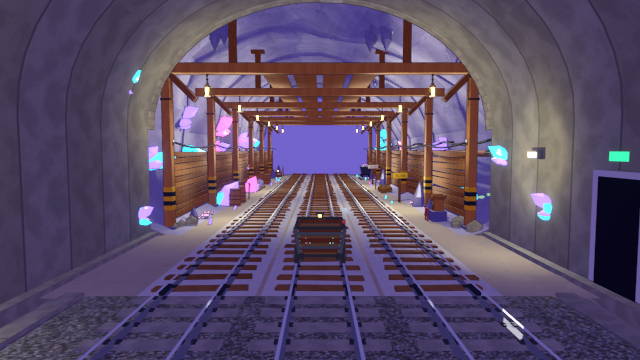
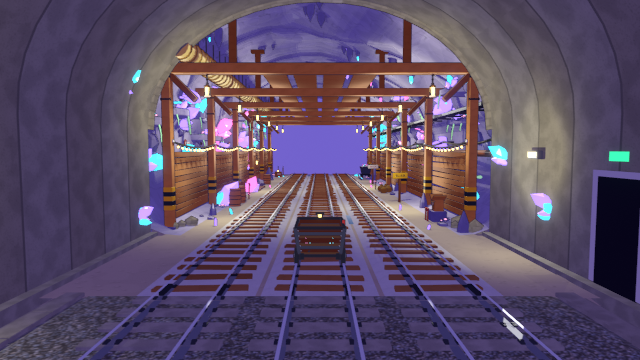
Fill the cave's sides and keep the crouch heights in one place
The walls above the boards were bare. Each segment now has rock ledges
with crystals, glowing mushrooms and hanging moss; boulders standing out
of the wall; rock bolts; a painted survey mark; veins of small crystals;
more clusters up to the crown; and more stalactites, some tipped with
crystals. A string of work lights runs along the boards, a canvas
ventilation duct hangs high on the left wall, a cable tray runs along the
right, and rubble lines the wall foot. One segment variant gets a closed
side gallery (第三坑道) with a rail stub, a barrier bar and a lantern.

Deco now sits on the shell's actual facets (_shell_mesh_at), so it no
longer floats or sinks where the mesh cuts across the strata steps.

BEAM_UNDERSIDE and SWARM_BAND sit with the other constants, and the
timber beam's sign, straps and hard hat and the fallen log's rubble
follow BEAM_UNDERSIDE, so a new rider height is one edit. A cave_sides
still shows the left wall.

Claude-Session: https://claude.ai/code/session_01CbRVruFijGgeuhrGT3us7X

diff --git a/blender/assets/cave.py b/blender/assets/cave.py
@@ -46,6 +46,11 @@ SHADOW = 0x6E62AE          # tinted shadow band inside the cave (the Sakura Line
 SHADOW_WARM = 0x8A6A8A
 CRYSTALS = (0x45D6F2, 0x9C7CFF, 0xFF74C4)
 
+# Crouch clearances, from the rider's height in the cart (the vehicle side owns Pongo's size). The crouch obstacles
+# are built relative to these, so a new rider height is one edit here plus the same numbers in the game.
+BEAM_UNDERSIDE = 1.25      # underside of ob_timber_beam and ob_fallen_log (obstacles.py: "beam HIGH ... at 1.25 m")
+SWARM_BAND = (1.2, 1.9)    # height band ob_bat_swarm flies in
+
 
 def mats():
     M = E.mat
@@ -91,6 +96,10 @@ def mats():
     M("c_loco_trim", 0xF2C230, spec=0.3, rim=0.3, soft=0.08, shadow=SHADOW_WARM)
     M("c_glass", 0x9FD8F0, spec=1.0, rim=0.5, soft=0.05, emis=0.25, flags=E.F_GLASS)
     M("c_strap", 0x3A2E2A, rim=0.25, soft=0.1, shadow=SHADOW_WARM)
+    M("c_canvas", 0xF2D98A, rim=0.3, soft=0.12, outline=0.6, shadow=SHADOW_WARM)          # ventilation duct
+    M("c_canvas_ring", 0xC99A48, rim=0.2, soft=0.1, outline=0.4, shadow=SHADOW_WARM)
+    M("c_cable_orange", 0xE58A4A, rim=0.25, soft=0.1, outline=0.0, shadow=SHADOW_WARM)
+    M("c_void", 0x16122A, emis=1.0, rim=0.0, soft=0.0, outline=0, flags=E.F_NOCAST)       # a side gallery's dark
 
 
 # ----------------------------------------------------------------------------- helpers
@@ -287,27 +296,87 @@ def cave_shell(lod=0, seed=1, seg=SEG):
     return m.obj("cave_shell_%d" % seed + ("" if lod == 0 else "@1"), smooth_angle=18)
 
 
+_PROF0 = {}
+
+
+def _shell_mesh_at(i, t, y, seed):
+    """Point on the LOD0 cave_shell mesh itself: between profile vertices i and i+1 (t 0..1) and between the 1 m
+    rows around y. Placing deco on the facets, not on the smooth field, keeps it from floating or sinking where
+    the mesh cuts across the strata steps."""
+    if not _PROF0:
+        _PROF0["p"] = vault_profile(15)
+    prof, arc = _PROF0["p"]
+    ya = math.floor(y)
+    u = y - ya
+
+    def P(k, yy):
+        x, z, nx, nz = prof[k]
+        return shell_point(x, z, nx, nz, arc[k], yy, seed)
+    a = P(i, ya).lerp(P(i + 1, ya), t)
+    b = P(i, ya + 1.0).lerp(P(i + 1, ya + 1.0), t)
+    n = V(prof[i][2:]).lerp(V(prof[i + 1][2:]), t)
+    return a.lerp(b, u), V((n.x, 0, n.y)).normalized()
+
+
 def _surface_at(px, pz_hint, y, seed, side):
-    """Point and inward normal on the displaced shell near height pz_hint on one side (+1 right, -1 left)."""
-    prof, arc = vault_profile(60)
-    best = None
-    for i, (x, z, nx, nz) in enumerate(prof):
-        if (x > 0) != (side > 0):
+    """Point and inward normal on the shell mesh at height pz_hint on one side (+1 right, -1 left)."""
+    if not _PROF0:
+        _PROF0["p"] = vault_profile(15)
+    prof = _PROF0["p"][0]
+    for i in range(len(prof) - 1):
+        (x0, z0), (x1, z1) = prof[i][:2], prof[i + 1][:2]
+        if (x0 + x1 > 0) != (side > 0) or z0 == z1:
             continue
-        dz = abs(z - pz_hint)
-        if best is None or dz < best[0]:
-            best = (dz, i)
-    i = best[1]
-    x, z, nx, nz = prof[i]
-    p = shell_point(x, z, nx, nz, arc[i], y, seed)
-    return p, V((nx, 0, nz))
+        t = (pz_hint - z0) / (z1 - z0)
+        if 0.0 <= t <= 1.0:
+            return _shell_mesh_at(i, t, y, seed)
+    raise ValueError("no wall at z=%.2f" % pz_hint)
 
 
 def _ceiling_at(x_hint, y, seed):
-    prof, arc = vault_profile(60)
-    i = min(range(len(prof)), key=lambda k: abs(prof[k][0] - x_hint) + (0 if prof[k][1] > 5 else 100))
-    x, z, nx, nz = prof[i]
-    return shell_point(x, z, nx, nz, arc[i], y, seed), V((nx, 0, nz))
+    if not _PROF0:
+        _PROF0["p"] = vault_profile(15)
+    prof = _PROF0["p"][0]
+    for i in range(len(prof) - 1):
+        (x0, z0), (x1, z1) = prof[i][:2], prof[i + 1][:2]
+        if min(z0, z1) > 4.5 and x0 != x1:
+            t = (x_hint - x0) / (x1 - x0)
+            if 0.0 <= t <= 1.0:
+                return _shell_mesh_at(i, t, y, seed)
+    return _surface_at(0, 5.0, y, seed, 1 if x_hint > 0 else -1)
+
+
+def _ledge(m, side, y, z, L, seed, rnd, palette, lod=0):
+    """A rock shelf jutting from the wall at height z, L long: flat top with a jagged front lip, its back buried in
+    the rock, crystals and glowing mushrooms on it and glowing moss hanging over the edge."""
+    ws = [abs(_surface_at(0, z, yy, seed, side)[0].x) for yy in (y - L / 2, y, y + L / 2)]
+    back = max(ws) + 0.35
+    front = min(ws) - rnd.uniform(0.55, 0.85)
+    n = 6
+    lip = []
+    for j in range(n + 1):
+        t = j / n
+        taper = math.sin(math.pi * t) ** 0.6           # the ends tuck back into the wall
+        xa = front + (1 - taper) * (back - 0.3 - front) + rnd.uniform(-0.1, 0.1) * taper
+        lip.append((side * xa, y - L / 2 + L * t))
+    outline = lip + [(side * back, y + L / 2), (side * back, y - L / 2)]
+    th = rnd.uniform(0.22, 0.32)
+    m.mat("c_rock", uvscale=1.5)
+    m.extrude(outline, th, c=(0, 0, z), bevel=(0.03, 1) if lod == 0 else None)
+    top = z + th / 2
+    xm = side * (front + 0.35)
+    crystal_cluster(m, (xm, y + rnd.uniform(-L / 4, L / 4), top), (-side * 0.25, rnd.uniform(-0.3, 0.3), 1.0),
+                    size=rnd.uniform(0.45, 0.8), rnd=rnd, mats=palette, n=4 if lod == 0 else 2, lod=lod)
+    if lod == 0:
+        _mushrooms(m, xm + side * 0.15, y + rnd.uniform(-L / 3, L / 3), top, rnd, n=rnd.randint(3, 5), spread=0.12)
+        m.mat("c_moss")
+        for j in range(1, n):
+            if rnd.random() < 0.55:
+                x0, yy = lip[j]
+                h = rnd.uniform(0.25, 0.8)
+                m.tube([(x0 + side * 0.03, yy, z - th / 2 + 0.02), (x0 - side * 0.02, yy + 0.03, z - th / 2 - h * 0.5),
+                        (x0 - side * 0.04, yy, z - th / 2 - h)], r=0.035, seg=5, taper=0.4)
+        m.ico((xm + side * 0.2, y, top), 0.22, 1, s=(1.0, 2.0, 0.25))
 
 
 def cave_deco(lod=0, seed=1, seg=SEG):
@@ -328,9 +397,65 @@ def cave_deco(lod=0, seed=1, seg=SEG):
             y = rnd.uniform(1.5, seg - 1.5)
             crystal_cluster(m, (side * rnd.uniform(4.75, 5.2), y, FLOOR), (side * -0.45, rnd.uniform(-0.2, 0.2), 1.0),
                             size=rnd.uniform(0.9, 1.6), rnd=rnd, mats=palette, n=rnd.randint(6, 10), lod=lod)
-    # stalactites in groups from the vault
+    # upper walls (they were bare above the boards): rock ledges with crystals, mushrooms and hanging moss, more
+    # clusters up to the crown, and veins of small points running along cracks
+    for side in (-1, 1):
+        for k in range(rnd.randint(3, 4) if lod == 0 else 1):
+            _ledge(m, side, seg * (k + rnd.uniform(0.25, 0.75)) / 4, rnd.uniform(3.0, 5.4), rnd.uniform(1.6, 2.8), seed,
+                   rnd, palette, lod)
+        for k in range(rnd.randint(6, 9) if lod == 0 else 2):           # boulders standing out of the wall
+            p, nrm = _surface_at(0, rnd.uniform(2.8, 7.0), rnd.uniform(0.3, seg - 0.3), seed, side)
+            m.push(Matrix.Translation(p) @ _orient(nrm))
+            _rock(m, (0, 0, 0), rnd.uniform(0.25, 0.6), rnd, s=(1.0, rnd.uniform(0.7, 1.2), 0.75),
+                  mat=rnd.choice(("c_rock_dark", "c_rock_wet")))
+            m.pop()
+        if lod == 0:                                                   # rock bolts: plates and nuts in a loose grid
+            for yb in (1.6, 4.6, 7.6, 10.6):
+                for zb in (3.2, 4.6, 6.0):
+                    if rnd.random() < 0.75:
+                        p, nrm = _surface_at(0, zb + rnd.uniform(-0.3, 0.3), yb + rnd.uniform(-0.4, 0.4), seed, side)
+                        m.push(Matrix.Translation(p) @ _orient(nrm) @ _R(rnd.uniform(-20, 20), 'Z'))
+                        m.mat("c_iron_dark")
+                        m.box((0, 0, 0.0), (0.18, 0.18, 0.04), smooth=False)
+                        m.mat("c_rust")
+                        m.cyl((0, 0, 0.04), r=0.035, h=0.05, seg=6, smooth=False)
+                        m.pop()
+            # a survey mark painted on the rock: a red ring round a white dot, and an arrow out
+            p, nrm = _surface_at(0, rnd.uniform(3.0, 3.8), rnd.uniform(2.0, seg - 2.0), seed, side)
+            m.push(Matrix.Translation(p + nrm * 0.03) @ _orient(nrm))
+            m.mat("c_paint_red")
+            m.cyl((0, 0, 0), r=0.16, h=0.02, seg=16)
+            m.mat("c_paint_white")
+            m.cyl((0, 0, 0.012), r=0.08, h=0.02, seg=12)
+            m.mat("c_paint_white")
+            m.poly([(0.25, -0.05, 0.01), (0.55, -0.05, 0.01), (0.55, -0.12, 0.01), (0.7, 0.0, 0.01), (0.55, 0.12, 0.01),
+                    (0.55, 0.05, 0.01), (0.25, 0.05, 0.01)])
+            m.pop()
+        m.mat("c_moss")
+        for k in range(rnd.randint(2, 4) if lod == 0 else 0):           # glowing moss up the wall
+            p, nrm = _surface_at(0, rnd.uniform(2.8, 6.0), rnd.uniform(0.5, seg - 0.5), seed, side)
+            m.push(Matrix.Translation(p) @ _orient(nrm))
+            for j in range(3):
+                m.ico((rnd.uniform(-0.2, 0.2), rnd.uniform(-0.25, 0.25), 0), rnd.uniform(0.15, 0.28), 1,
+                      s=(1.0, 1.3, 0.25))
+            m.pop()
+        for k in range(rnd.randint(2, 3)):
+            p, nrm = _surface_at(0, rnd.uniform(4.6, 6.8), rnd.uniform(1.0, seg - 1.0), seed, side)
+            crystal_cluster(m, tuple(p - nrm * 0.1), (nrm + V((0, 0, -0.25))).normalized(), size=rnd.uniform(0.6, 1.2),
+                            rnd=rnd, mats=palette, n=rnd.randint(4, 7), lod=lod)
+        for k in range(rnd.randint(2, 3) if lod == 0 else 0):
+            y0, z0 = rnd.uniform(0.5, seg - 3.0), rnd.uniform(2.9, 6.0)
+            for j in range(rnd.randint(5, 8)):
+                p, nrm = _surface_at(0, z0 + j * 0.13 + rnd.uniform(-0.1, 0.1), y0 + j * 0.35, seed, side)
+                d = (nrm + V((rnd.uniform(-0.4, 0.4), rnd.uniform(-0.4, 0.4), 0.3))).normalized()
+                crystal(m, tuple(p - nrm * 0.05), d, rnd.uniform(0.15, 0.35), 0.045, rnd.choice(palette),
+                        twist=rnd.random())
+        for k in range(rnd.randint(4, 7) if lod == 0 else 2):          # rubble along the wall foot
+            _rock(m, (side * rnd.uniform(4.4, 5.3), rnd.uniform(0.3, seg - 0.3), FLOOR + 0.04),
+                  rnd.uniform(0.08, 0.22), rnd, s=(1.0, 1.0, 0.6), mat=rnd.choice(("c_rock", "c_rock_dark")))
+    # stalactites in groups from the vault, some tipped with a crystal
     m.mat("c_rock_wet", uvscale=1.0)
-    for g in range(rnd.randint(3, 5)):
+    for g in range(rnd.randint(5, 8) if lod == 0 else 3):
         xg = rnd.uniform(-5.0, 5.0)
         yg = rnd.uniform(0.5, seg - 0.5)
         for k in range(rnd.randint(2, 5) if lod == 0 else 2):
@@ -342,6 +467,10 @@ def cave_deco(lod=0, seed=1, seg=SEG):
             n = 7 if lod == 0 else 5
             m.cyl((0, 0, -L * 0.3), r=r, r2=r * 1.15, h=L * 0.6, seg=n)
             m.cyl((0, 0, -L * 0.8), r=0.0, r2=r, h=L * 0.4, seg=n, caps=False)
+            if lod == 0 and rnd.random() < 0.3:
+                crystal(m, (0, 0, -L * 0.75), (rnd.uniform(-0.2, 0.2), rnd.uniform(-0.2, 0.2), -1.0), L * 0.4, r * 0.5,
+                        rnd.choice(palette))
+            m.mat("c_rock_wet", uvscale=1.0)
             m.pop()
     # stalagmites at the wall foot
     for side in (-1, 1):
@@ -452,6 +581,13 @@ def cave_frame(lod=0):
             m.mat("c_cable")
             m.sweep(pts, [(0.018 * math.cos(a), 0.018 * math.sin(a)) for a in [2 * math.pi * i / 6 for i in range(6)]],
                     closed=True, cap=False, up=(0, 0, 1))
+            for i in range(1, 12):                 # a string of work lights on the cable
+                y = 6.0 * i / 12
+                zc = 3.0 - 0.18 * math.sin(math.pi * y / 6.0)
+                m.mat("c_iron_dark")
+                m.cyl((s * 5.12, y, zc - 0.05), r=0.022, h=0.06, seg=6)
+                m.mat("c_lamp")
+                m.sphere((s * 5.12, y, zc - 0.12), 0.05, 6, 4)
             m.mat("c_porcelain")
             m.cyl((s * 5.12, 0, 3.04), r=0.045, r2=0.03, h=0.09, seg=8)
             m.mat("c_iron_dark")
@@ -489,6 +625,29 @@ def cave_pipe(lod=0, seg=SEG):
         pts += E.catenary(a, b, sag=0.18, n=10 if lod == 0 else 4)[(0 if k == 0 else 1):]
     pts = [p for p in pts if p[1] <= seg + 0.01] + [(x - 0.02, seg, z + 0.52 - 0.0)]
     m.tube(pts, r=0.03, seg=6 if lod == 0 else 4, cap=False)
+    # a canvas ventilation duct hung high on the left wall, above the frames' cap beams, ribbed every 0.6 m
+    dx, dz, dr = -4.6, 6.1, 0.38
+    m.mat("c_canvas", uvscale=1.0)
+    m.cyl((dx, seg / 2, dz), r=dr, h=seg, seg=16 if lod == 0 else 8, axis='Y')
+    m.mat("c_canvas_ring")
+    for k in range(int(seg / 0.6)):
+        y = 0.3 + k * 0.6
+        if lod == 0 or k % 3 == 0:
+            m.torus((dx, y, dz), R=dr + 0.005, r=0.025, seg=16 if lod == 0 else 8, sides=4, axis='Y')
+    m.mat("c_iron_dark")
+    for k in range(int(seg / 1.2)):
+        y = 0.6 + k * 1.2
+        m.cyl((dx - 0.15, y, dz + dr + 0.45), r=0.01, h=0.9, seg=4)                     # hanger wires
+    # a cable tray on the right wall above the boards: three cables on brackets
+    tx, tz = 5.75, 4.3
+    m.mat("c_iron_dark")
+    m.box((tx, seg / 2, tz - 0.03), (0.42, seg, 0.025), smooth=False)
+    m.box((tx - 0.2, seg / 2, tz + 0.02), (0.02, seg, 0.1), smooth=False)
+    for k in range(int(seg / 1.5)):
+        m.box((tx + 0.25, 0.75 + k * 1.5, tz - 0.08), (0.6, 0.05, 0.05), smooth=False)
+    for j, mat in enumerate(("c_cable", "c_cable_orange", "c_iron") if lod == 0 else ("c_cable_orange",)):
+        m.mat(mat)
+        m.cyl((tx - 0.12 + j * 0.12, seg / 2, tz + 0.03), r=0.04, h=seg, seg=8 if lod == 0 else 5, axis='Y')
     return m.obj("cave_pipe" if lod == 0 else "cave_pipe@1", smooth_angle=40)
 
 
@@ -676,7 +835,6 @@ def rockpile(name="ob_rockpile", seed=3):
     return ob
 
 
-BEAM_UNDERSIDE = 1.25      # crouch height in the cart (obstacles.py: "beam HIGH timber beam at 1.25 m")
 
 
 def timber_beam(name="ob_timber_beam"):
@@ -693,7 +851,7 @@ def timber_beam(name="ob_timber_beam"):
             m.mat("c_paint_yellow" if k % 2 == 0 else "c_paint_black")
             m.box((0, 0, 0.2 + k * 0.14), (0.25, 0.25, 0.14), smooth=False)
         m.mat("c_iron_dark")
-        for z in (0.95, BEAM_UNDERSIDE - 0.08):
+        for z in (BEAM_UNDERSIDE - 0.3, BEAM_UNDERSIDE - 0.08):
             m.box((0, 0, z), (0.27, 0.27, 0.05), smooth=False)                          # iron strap
             for bx in (-0.06, 0.06):
                 m.cyl((bx, -0.14, z), r=0.017, h=0.02, seg=8, axis='Y')                # bolt heads
@@ -708,7 +866,7 @@ def timber_beam(name="ob_timber_beam"):
     m.mat("c_iron_dark")
     bx, by, bz = _chain(m, (-W / 2 - 0.2, -0.1, BEAM_UNDERSIDE), n=5)
     m.torus((bx, by, bz - 0.03), R=0.04, r=0.01, seg=10, sides=4, arc=270.0, axis='Y')
-    _hard_hat(m, (W / 2 - 0.02, -0.27, 1.06), yaw=8)
+    _hard_hat(m, (W / 2 - 0.02, -0.27, BEAM_UNDERSIDE - 0.19), yaw=8)
     m.mat("c_timber", uvscale=1.0)
     m.push(Matrix.Translation((0, 0, BEAM_UNDERSIDE + 0.14)) @ Matrix.Rotation(math.radians(2), 4, 'Y'))
     m.box((0, 0, 0), (W + 0.5, 0.28, 0.28), bevel=(0.015, 1), smooth=False)       # underside at the crouch line
@@ -722,18 +880,19 @@ def timber_beam(name="ob_timber_beam"):
     # hazard board on ropes: yellow/black stripes and 頭上注意
     m.mat("c_rope")
     for x in (-0.4, 0.4):
-        m.cyl((x, -0.16, 1.68), r=0.01, h=0.3, seg=5)
+        m.cyl((x, -0.16, BEAM_UNDERSIDE + 0.43), r=0.01, h=0.3, seg=5)
     m.mat("c_paint_yellow")
-    m.box((0, -0.16, 1.9), (1.15, 0.04, 0.34), smooth=False)
+    zb = BEAM_UNDERSIDE + 0.65
+    m.box((0, -0.16, zb), (1.15, 0.04, 0.34), smooth=False)
     m.mat("c_iron_dark")
     for k in range(6):
-        m.push(Matrix.Translation((-0.48 + k * 0.19, -0.185, 1.9)) @ Matrix.Rotation(math.radians(35), 4, 'Y'))
+        m.push(Matrix.Translation((-0.48 + k * 0.19, -0.185, zb)) @ Matrix.Rotation(math.radians(35), 4, 'Y'))
         m.box((0, 0, 0), (0.05, 0.01, 0.42), smooth=False)
         m.pop()
     m.mat("c_paint_white")
-    m.box((0, -0.19, 1.9), (0.66, 0.012, 0.22), smooth=False)
+    m.box((0, -0.19, zb), (0.66, 0.012, 0.22), smooth=False)
     m.mat("c_paint_red")
-    m.push(Matrix.Translation((0, -0.2, 1.9)) @ Matrix.Rotation(math.radians(90), 4, 'X'))
+    m.push(Matrix.Translation((0, -0.2, zb)) @ Matrix.Rotation(math.radians(90), 4, 'X'))
     m.text("頭上注意", size=0.14, depth=0.008, font=E.FONT_JP, c=(0, 0, 0))
     m.pop()
     lantern(m, (W / 2 + 0.2, 0, BEAM_UNDERSIDE + 0.28))
@@ -917,18 +1076,19 @@ def ore_train(name="ob_ore_train", wagons=3, seed=11, lod=0):
 
 def fallen_log(name="ob_fallen_log", seed=4):
     """CROUCH: a round log (an old prop gone over) jammed across the track, resting on rubble at both sides with
-    its underside at 1.25 m. Bark, broken branch stubs, a split end, crystals grown on top. Duck to pass."""
+    its underside at BEAM_UNDERSIDE. Bark, broken branch stubs, a split end, crystals grown on top. Duck to pass."""
     rnd = random.Random(seed)
     m = E.Mesher(name)
     W = 2.6
     r = 0.2
     zc = BEAM_UNDERSIDE + r
-    # rubble heaps at both sides that hold the log up
+    k = BEAM_UNDERSIDE / 1.25
+    # rubble heaps at both sides that hold the log up (scaled with the crouch line)
     for sx in (-1, 1):
         # a rubble cone: three big stones at the base, two above, one wedged under the log
         for (dx, dy, z, rr) in ((-0.3, -0.25, 0.3, 0.42), (0.3, -0.15, 0.3, 0.4), (0.0, 0.3, 0.3, 0.42),
                                 (-0.12, -0.05, 0.75, 0.34), (0.2, 0.12, 0.72, 0.3), (0.0, 0.0, 1.05, 0.26)):
-            _rock(m, (sx * (W / 2 - 0.1) + dx, dy, z), rr * rnd.uniform(0.9, 1.1), rnd, s=(1.0, 0.9, 0.75),
+            _rock(m, (sx * (W / 2 - 0.1) + dx, dy, z * k), rr * k * rnd.uniform(0.9, 1.1), rnd, s=(1.0, 0.9, 0.75),
                   mat=rnd.choice(("c_rock_dark", "c_rock")))
     # the log: slightly bent, tapering, with bark-coloured timber and a pale split end
     pts = [(-W / 2 - 0.35, 0.0, zc + 0.06), (-0.4, 0.03, zc - 0.02), (0.5, -0.02, zc - 0.01), (W / 2 + 0.3, 0.02, zc + 0.08)]
@@ -1000,9 +1160,6 @@ def fallen_log(name="ob_fallen_log", seed=4):
     m.pop()
     ob = m.obj(name, smooth_angle=45)
     return ob
-
-
-SWARM_BAND = (1.2, 1.9)
 
 
 def bat_swarm(frame=0, name=None, seed=13, n=9):
@@ -1146,6 +1303,33 @@ def rail_stack(m, c, n=4, L=3.0):
                 closed=True, cap=True)
 
 
+def side_gallery(m, side, y, lod=0, name="第三坑道"):
+    """A closed-off side gallery in the wall (|x| ~5.4), 1.3 m wide: a dark opening in front of the boards in a
+    timber set, a rail stub running in, a yellow and black bar across it, a name board and a lantern."""
+    xw = side * 5.47
+    m.mat("c_void")
+    pts = [(xw, y - 0.65, FLOOR), (xw, y + 0.65, FLOOR), (xw, y + 0.65, 2.25), (xw, y - 0.65, 2.25)]
+    m.poly(pts[::-1] if side > 0 else pts)            # faces the tunnel axis
+    m.mat("c_timber", uvscale=1.0)
+    for dy in (-0.75, 0.75):
+        m.box((side * 5.36, y + dy, (FLOOR + 2.35) / 2), (0.2, 0.2, 2.45 - FLOOR), smooth=False)
+    m.box((side * 5.36, y, 2.42), (0.24, 1.9, 0.22), smooth=False)
+    for k in range(5):                      # the bar across: closed
+        m.mat("c_paint_yellow" if k % 2 == 0 else "c_paint_black")
+        m.box((side * 5.3, y - 0.6 + k * 0.24 + 0.12, 0.95), (0.06, 0.24, 0.09), smooth=False)
+    m.mat("c_paint_white")
+    m.box((side * 5.22, y, 2.75), (0.03, 0.9, 0.28), smooth=False)
+    m.mat("c_iron_dark")
+    m.push(Matrix.Translation((side * 5.2, y, 2.75)) @ _R(-side * 90, 'Z') @ _R(90, 'X'))   # reads from the track
+    m.text(name, size=0.17, depth=0.006, font=E.FONT_JP, c=(0, 0, 0))
+    m.pop()
+    m.push(Matrix.Translation((side * 4.95, y, 0)) @ _R(90, 'Z'))
+    _rail(m, -GAUGE / 2, -0.5, 0.5)
+    _rail(m, GAUGE / 2, -0.5, 0.5)
+    m.pop()
+    lantern(m, (side * 5.15, y + 0.95, 2.3), lod)
+
+
 def cave_props(lod=0, seed=1, seg=SEG):
     """Small props outside the lanes (|x| 3.7 .. 5.2), one variant per seed."""
     rnd = random.Random(seed * 7 + 2)
@@ -1166,6 +1350,7 @@ def cave_props(lod=0, seed=1, seg=SEG):
         shovel(m, (-side * 4.0, 4.6, FLOOR), yaw=90, lean=side * 12)
         signboard(m, (-side * 4.4, 9.5, FLOOR), "落石注意", yaw=-side * 15, col="c_paint_white", ink="c_paint_red")
         barrel(m, (side * 4.4, 9.5, FLOOR), rnd, h=0.8)
+        side_gallery(m, side, 8.0, lod)
     else:
         # an old cart left on a stub of rail by the wall, with a lantern on a crate beside it
         _rail(m, side * 4.45 - 0.53, 2.0, 5.2)
@@ -1338,7 +1523,7 @@ def hotaru_beam(loc, target, power=1500.0, angle=50.0):
 
 def design_cave(only=""):
     """Crystal Cavern from Pongo's ore cart (Hotaru Lamp beam on), a high view down the gallery with the parting,
-    and a crystal close-up."""
+    a crystal close-up, and the left wall with its side gallery."""
     import vehicles as VH
     E.reset()
     studio.stage(res=(1280, 720), floor=False)
@@ -1354,8 +1539,9 @@ def design_cave(only=""):
     cave_tint()
     shots = {
         "cave_runner": dict(target=(0, 10, 1.3), dist=8.6, yaw=0, pitch=10, lens=24),
-        "cave_overview": dict(target=(0, 36, 0.8), dist=12, yaw=8, pitch=16, lens=24),
+        "cave_overview": dict(target=(0, 46, 0.8), dist=18.4, yaw=-10, pitch=12, lens=24),
         "cave_crystals": dict(target=(2.6, 4, 1.1), dist=4.6, yaw=-35, pitch=8, lens=30),
+        "cave_sides": dict(target=(-4.6, 31, 3.0), dist=8.5, yaw=62, pitch=6, lens=24),
     }
     for name, kw in shots.items():
         if only and only not in name:
